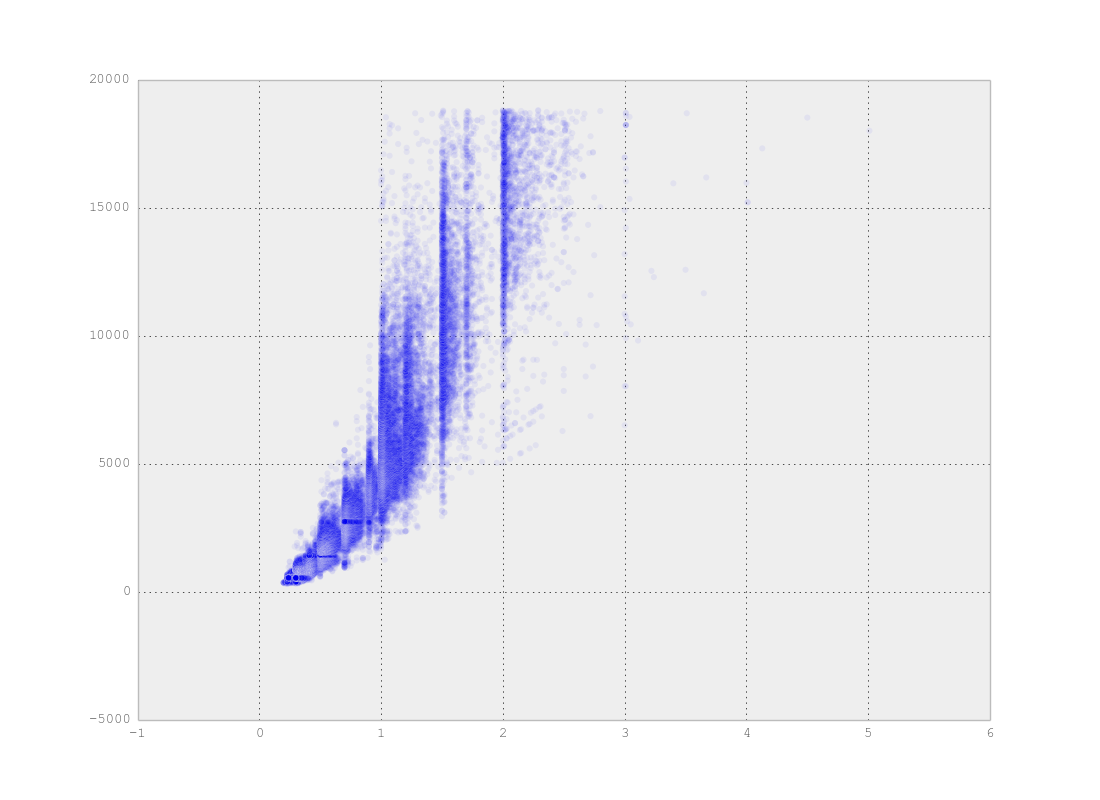
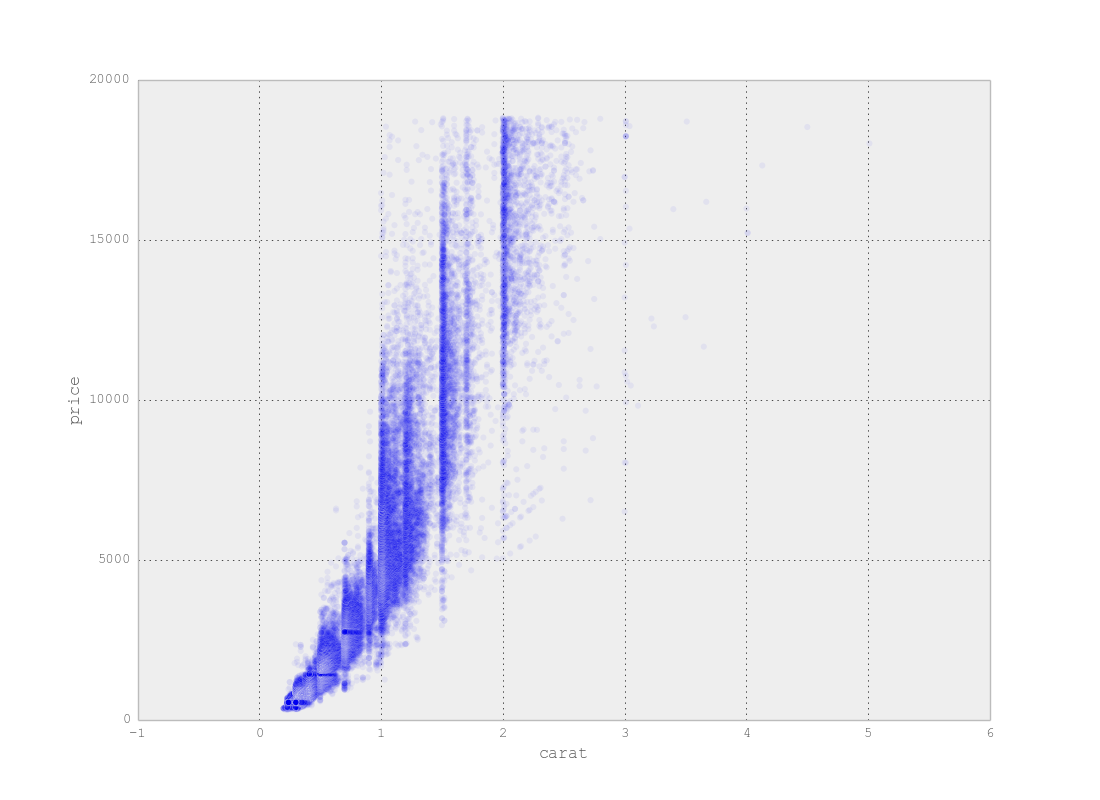
updated readme

diff --git a/README.md b/README.md
@@ -65,7 +65,8 @@ ggplot(aes(x='date', y='value', colour='variable'), data=meat_lng) + \
 ```
 from ggplot import *
 ggplot(diamonds, aes('carat', 'price')) + \
-    geom_point(alpha=1/20.)
+    geom_point(alpha=1/20.) + \
+    ylim(0, 20000)
 ```
 <img src="public/img/diamonds_geom_point_alpha.png">
 
